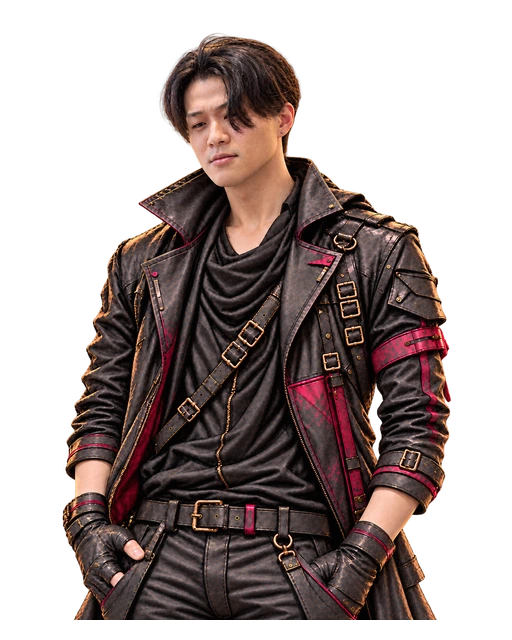
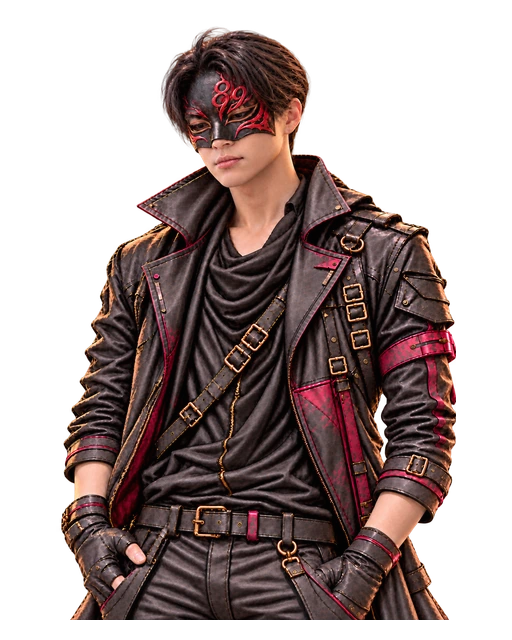
apply approved TKY89 mask across dialogue cards and battle head

diff --git a/docs/story/v10/PRODUCER_DECISIONS_FINAL_RELEASE.md b/docs/story/v10/PRODUCER_DECISIONS_FINAL_RELEASE.md
@@ -459,3 +459,14 @@ Solは技術調査、数値、duration、wave、cost、module分割、test方式
 - 旧save／asset削除、不可逆migration、history rewriteが必要
 - license／commercial-use／provenanceが不明
 - 正本同士の矛盾を本書と技術調査だけで一意に解けない
+
+- 2026-10-30追加指摘：TKYは「もっと韓流っぽく」「何も改善してない」。r10を視覚改善の受入済みと扱わず、本人性を維持した上で髪型・肌・眉/目元・唇と表情に明瞭な韓流俳優風の変化をつけて再修正する。
+
+- 2026-10-30 TKY追加デザイン試案：和風RPG風、黒地に赤ラインの狐を思わせる小さなアイマスクを目元周囲だけに付ける。鼻先・口・顎は露出。全面の狐面と動物耳・房などの追加飾りは明示却下。素顔と衣装の基準は保全し、試案の採否を承認済みにしない。
+
+- 2026-10-30 TKY最新指定：目元に細い帯だけの案は却下。生え際付近の額から目元まで一体の狐半面、耳なし・鼻先/口/顎は露出。本人らしい目鼻口を保ちつつ、頬〜エラ〜顎の骨格をもう少しだけスマートにする。5案は模様替えだけでなく輪郭・立体・面構造から創造的に変えて比較する。試案は未採用。消してしまった元の総合品質目標は同日復元しactiveで継続。
+
+- 2026-10-30 TKY採用判断：添付65fe48bcの上段右3番（両目を覆い額まである黒狐半面、非対称の赤紋）を選択。89を額の紋へ組み込み、芸術性を高めた修正版exec-99d58d8aを「おけ」と承認。耳なし、口元露出、本人性を保ち骨格を少しスマートにした顔と韓流風の仕上げを全描画へ接続する。片面型の別シート3番へ取り違えない。デザイン承認を全ゲームの受入へ拡張しない。
+
+- 2026-10-30 人物展開の再指摘：生成済みのキャラクターモデルを各場面の制作基準として使用してよい。提供写真は本人らしさがずれていないかを確かめる参照であり、毎回別の顔を生成する基準へ切り替えない。特にババヤガとクマバーソンの顔・髪・骨格を混ぜない。表情・角度・ポーズが変わっても同じモデルとして描く。直近の集合絵は顔の混同を指摘された候補で、受入済みにしない。
+- 2026-10-30 ババヤガのイベント絵を増やす：会話の立ち絵やスタッフロール枚数をイベント絵の充足へ読み替えず、既存原稿の登場・行動・人物弧を描く新しいイベントカットを加える。顔、統一美術、承認衣装とサプレッサー付きタクティカルハンドガンを維持する。原稿の出来事やセリフはこの作画追加だけで変更しない。
